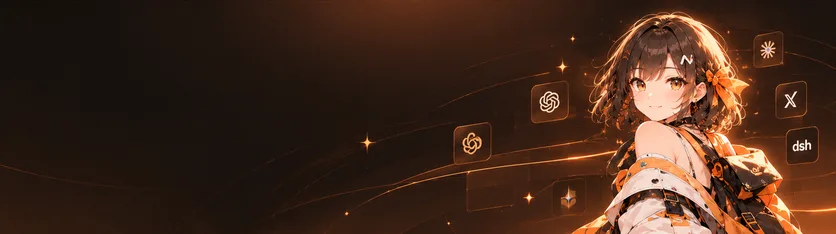
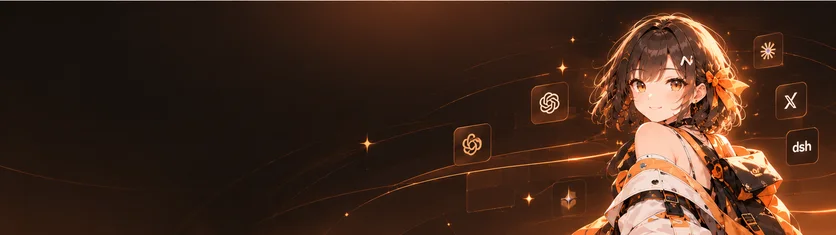
site: restore workflow full-bleed bg + home multi-platform download
- Crop fig2 bottom half into workflow-bg; object-position right so Nomi stays right
- Add scoped home-download section after workflow (Win/mac/Linux glass cards), no platforms block
- Leave pillars/sixcaps/nav/download.html untouched

diff --git a/index.html b/index.html
@@ -12,7 +12,7 @@
   <link rel="icon" href="assets/brand/nomi-mark.svg" type="image/svg+xml" />
   <link rel="preload" href="assets/fonts/nunito-latin.woff2" as="font" type="font/woff2" crossorigin />
   <link rel="preload" as="image" href="assets/mockup/hero-bg.webp?v=20261025v2fc" imagesrcset="assets/mockup/hero-bg.webp?v=20261025v2fc 1024w, assets/mockup/hero-bg@2x.webp?v=20261025v2fc 2048w" imagesizes="100vw" fetchpriority="high" />
-  <link rel="stylesheet" href="css/styles.css?v=20261025v2fc" />
+  <link rel="stylesheet" href="css/styles.css?v=20261025v2fd" />
 </head>
 <body data-page="home" id="top">
   <header class="site-header">
@@ -199,10 +199,10 @@
     <section class="section workflow workflow--bleed" id="workflow" aria-labelledby="workflow-title">
       <div class="workflow-bleed-media" aria-hidden="true">
         <img
-          src="assets/mockup/workflow-bg.webp?v=20261025v2fc"
-          srcset="assets/mockup/workflow-bg.webp?v=20261025v2fc 836w, assets/mockup/workflow-bg@2x.webp?v=20261025v2fc 1672w"
+          src="assets/mockup/workflow-bg.webp?v=20261025v2fd"
+          srcset="assets/mockup/workflow-bg.webp?v=20261025v2fd 836w, assets/mockup/workflow-bg@2x.webp?v=20261025v2fd 1672w"
           sizes="100vw"
-          width="1672" height="468"
+          width="1672" height="470"
           alt=""
           loading="lazy"
           decoding="async"
@@ -225,6 +225,53 @@
           <li><span class="wf-num">5</span><strong data-i18n="workflow.5.t">会话接管</strong><span data-i18n="workflow.5.d">热切换 · 升级 · 恢复</span></li>
           <li><span class="wf-num">6</span><strong data-i18n="workflow.6.t">可观测与安全</strong><span data-i18n="workflow.6.d">追踪 · 限额 · 令牌 · 隔离</span></li>
         </ol>
+      </div>
+    </section>
+
+
+    <section class="home-download" id="download" aria-labelledby="home-dl-title">
+      <div class="container home-download-grid">
+        <div class="home-download-copy">
+          <span class="section-label section-label--on-dark"><span class="star-mark" aria-hidden="true"><svg viewBox="0 0 24 24"><path fill="currentColor" d="M12 2C12.8 7 14.5 9 19.5 10C14.5 11 12.8 13 12 18C11.2 13 9.5 11 4.5 10C9.5 9 11.2 7 12 2Z"/></svg></span><span data-i18n="hero.badge">Nomi 2.0</span></span>
+          <h2 id="home-dl-title" data-i18n="page.download.title">支持多平台</h2>
+          <p class="lead" data-i18n="page.download.lead">覆盖主流操作系统，随时随地开始使用。</p>
+          <div class="home-download-cards">
+            <article class="home-dl-card">
+              <div class="os-icon" aria-hidden="true"><svg viewBox="0 0 24 24" fill="currentColor"><path d="M3 5.5L10.5 4.4v7.1H3V5.5zm0 13L10.5 19.6v-7.1H3v6zm8.2-13.2L21 3v8.5h-9.8V5.3zM12.2 19.7L21 21v-8.5h-8.8v7.2z"/></svg></div>
+              <h3>Windows</h3>
+              <p class="req" data-i18n="dl.windows.req">Windows 10 及以上</p>
+              <a class="btn btn-primary" id="dl-win" href="https://github.com/Cookieboty/nomi-ai/releases" rel="noopener noreferrer" target="_blank" data-i18n="dl.download">下载</a>
+            </article>
+            <article class="home-dl-card">
+              <div class="os-icon" aria-hidden="true"><svg viewBox="0 0 24 24" fill="currentColor"><path d="M16.7 12.6c0-2.1 1.7-3.1 1.8-3.2-1-1.4-2.5-1.6-3-1.7-1.3-.1-2.5.8-3.1.8-.7 0-1.7-.7-2.8-.7-1.4 0-2.8.9-3.5 2.2-1.5 2.6-.4 6.5 1.1 8.6.7 1 1.6 2.2 2.7 2.1 1.1 0 1.5-.7 2.8-.7s1.7.7 2.8.7c1.2 0 1.9-1 2.6-2 .8-1.2 1.1-2.3 1.1-2.4-.1 0-2.2-.9-2.2-3.7zM14.8 6.5c.6-.7 1-1.7.9-2.7-.9 0-1.9.6-2.5 1.3-.6.6-1.1 1.7-.9 2.6 1 .1 1.9-.5 2.5-1.2z"/></svg></div>
+              <h3>macOS</h3>
+              <p class="req" data-i18n="dl.mac.req">Apple Silicon / Intel</p>
+              <a class="btn btn-primary" id="dl-mac" href="https://github.com/Cookieboty/nomi-ai/releases" rel="noopener noreferrer" target="_blank" data-i18n="dl.download">下载</a>
+              <div class="home-dl-sub">
+                <a id="dl-mac-arm64" href="https://github.com/Cookieboty/nomi-ai/releases" rel="noopener noreferrer" target="_blank">Apple Silicon</a>
+                <a id="dl-mac-x64" href="https://github.com/Cookieboty/nomi-ai/releases" rel="noopener noreferrer" target="_blank">Intel</a>
+              </div>
+            </article>
+            <article class="home-dl-card">
+              <div class="os-icon" aria-hidden="true"><svg viewBox="0 0 24 24" fill="currentColor"><path d="M12.5 2c-1.2 0-2.1 1.4-1.9 2.7.1.6.3 1.2.3 1.8 0 .4-.2.8-.3 1.2-.5 1.3-.2 2.3.7 3.2.2.2.3.5.2.8-.2.8-.5 1.5-.5 2.4 0 2.1 1.6 3.6 3.8 3.6 2.5 0 4-1.8 4-4.1 0-1.5-.6-2.7-1.1-3.7-.2-.4-.2-.8 0-1.2.5-1.1.7-2.2.4-3.4C17.8 3.1 16.4 2 14.8 2c-.8 0-1.5.3-2 .8-.1-.3-.2-.5-.3-.8zM8.6 14.2c-.9 0-1.8.4-2.4 1.1C5.2 16.3 5 17.7 5.4 19c.5 1.5 1.8 2.5 3.4 2.5.6 0 1.1-.1 1.6-.4.4 1.2 1.5 2 2.8 2 1 0 1.9-.5 2.4-1.3.6.3 1.2.4 1.9.4 1.8 0 3.3-1.2 3.7-2.9.3-1.3-.1-2.6-1-3.5-.7-.7-1.6-1.1-2.6-1.1-.5 0-1 .1-1.4.3-.5-.9-1.5-1.5-2.6-1.5-.9 0-1.7.4-2.3 1.1-.5-.7-1.3-1.1-2.1-1.1z"/></svg></div>
+              <h3>Linux</h3>
+              <p class="req" data-i18n="dl.linux.req">x64 AppImage</p>
+              <a class="btn btn-primary" id="dl-linux" href="https://github.com/Cookieboty/nomi-ai/releases" rel="noopener noreferrer" target="_blank" data-i18n="dl.download">下载</a>
+            </article>
+          </div>
+          <p class="home-download-more"><a href="download.html" data-i18n="platforms.desktop.cta">前往下载页 →</a></p>
+        </div>
+        <div class="home-download-visual" aria-hidden="true">
+          <img
+            src="assets/mockup/home-dl-visual.webp?v=20261025v2fd"
+            srcset="assets/mockup/home-dl-visual.webp?v=20261025v2fd 257w, assets/mockup/home-dl-visual@2x.webp?v=20261025v2fd 514w"
+            sizes="(max-width: 900px) min(70vw, 280px), 340px"
+            width="514" height="397"
+            alt=""
+            loading="lazy"
+            decoding="async"
+          />
+        </div>
       </div>
     </section>
 

diff --git a/css/styles.css b/css/styles.css
@@ -2058,6 +2058,7 @@ a:hover { color: var(--app-accent-strong); }
   overflow: hidden;
   color: #fff8f1;
   padding: clamp(2.75rem, 6vw, 4.25rem) 0;
+  min-height: clamp(380px, 52vh, 520px);
   background: #140e0a;
 }
 .workflow-bleed-media {
@@ -2069,7 +2070,7 @@ a:hover { color: var(--app-accent-strong); }
   width: 100%;
   height: 100%;
   object-fit: cover;
-  object-position: 85% 45%;
+  object-position: right center;
   display: block;
 }
 .workflow-bleed-mask {
@@ -2127,7 +2128,7 @@ a:hover { color: var(--app-accent-strong); }
   .workflow-steps { grid-template-columns: repeat(3, minmax(0, 1fr)); }
 }
 @media (max-width: 640px) {
-  .workflow-bleed-media img { object-position: 92% 40%; }
+  .workflow-bleed-media img { object-position: right center; }
   .workflow-bleed-mask {
     background:
       linear-gradient(180deg, rgba(12, 8, 5, 0.7) 0%, rgba(12, 8, 5, 0.82) 100%),
@@ -2427,4 +2428,120 @@ body[data-page="download"] footer.site-footer {
 }
 @media (min-width: 640px) and (max-width: 900px) {
   .dl-glass-grid { grid-template-columns: repeat(3, minmax(0, 1fr)); }
+}
+
+
+/* Home download (fig1) — scoped, do not touch .dl-hero */
+.home-download {
+  position: relative;
+  overflow: hidden;
+  color: #fff8f1;
+  padding: clamp(2.5rem, 5.5vw, 3.75rem) 0;
+  background:
+    radial-gradient(ellipse 55% 70% at 88% 45%, rgba(251, 148, 102, 0.28), transparent 55%),
+    radial-gradient(ellipse 40% 50% at 20% 80%, rgba(196, 84, 37, 0.12), transparent 50%),
+    linear-gradient(160deg, #120c09 0%, #1c120c 45%, #24160f 100%);
+}
+.home-download-grid {
+  display: grid;
+  grid-template-columns: minmax(0, 1.2fr) minmax(200px, 0.55fr);
+  gap: clamp(1.25rem, 3.5vw, 2.5rem);
+  align-items: center;
+}
+.home-download-copy .section-label--on-dark {
+  color: #ffd2b0;
+  margin-bottom: 0.55rem;
+  text-transform: none;
+  letter-spacing: 0.02em;
+  font-weight: 700;
+}
+.home-download h2 {
+  color: #fff8f1;
+  font-size: clamp(1.75rem, 3.8vw, 2.5rem);
+  margin: 0 0 0.45rem;
+  background: none;
+}
+.home-download .lead {
+  color: rgba(255, 248, 241, 0.78);
+  margin: 0 0 1.35rem;
+  max-width: 28em;
+}
+.home-download-cards {
+  display: grid;
+  grid-template-columns: repeat(3, minmax(0, 1fr));
+  gap: 0.85rem;
+}
+.home-dl-card {
+  background: rgba(255, 248, 241, 0.07);
+  border: 1px solid rgba(251, 148, 102, 0.35);
+  border-radius: 18px;
+  padding: 1.2rem 1.05rem 1.15rem;
+  box-shadow: 0 12px 32px rgba(0, 0, 0, 0.28);
+  backdrop-filter: blur(12px);
+  -webkit-backdrop-filter: blur(12px);
+  display: flex;
+  flex-direction: column;
+  gap: 0.3rem;
+  color: #fff8f1;
+}
+.home-dl-card .os-icon {
+  width: 40px;
+  height: 40px;
+  border-radius: 12px;
+  background: rgba(251, 148, 102, 0.18);
+  color: #ffd2b0;
+  display: grid;
+  place-items: center;
+  margin-bottom: 0.25rem;
+}
+.home-dl-card .os-icon svg { width: 22px; height: 22px; }
+.home-dl-card h3 { margin: 0; color: #fff8f1; font-size: 1.1rem; }
+.home-dl-card .req {
+  margin: 0 0 0.65rem;
+  font-size: 0.85rem;
+  color: rgba(255, 248, 241, 0.7);
+}
+.home-dl-card .btn-primary {
+  width: 100%;
+  justify-content: center;
+  border-radius: 999px;
+  margin-top: auto;
+}
+.home-dl-sub {
+  display: flex;
+  flex-wrap: wrap;
+  gap: 0.35rem 0.75rem;
+  margin-top: 0.4rem;
+  justify-content: center;
+}
+.home-dl-sub a {
+  font-size: 0.72rem;
+  color: rgba(255, 248, 241, 0.55);
+  text-decoration: underline;
+  text-underline-offset: 2px;
+}
+.home-dl-sub a:hover { color: #ffb288; }
+.home-download-more {
+  margin: 1rem 0 0;
+  font-size: 0.92rem;
+}
+.home-download-more a { color: #ffb288; }
+.home-download-visual {
+  display: flex;
+  justify-content: center;
+  align-items: center;
+}
+.home-download-visual img {
+  width: min(100%, 340px);
+  height: auto;
+  filter: drop-shadow(0 24px 48px rgba(0, 0, 0, 0.45));
+}
+@media (max-width: 900px) {
+  .home-download-grid { grid-template-columns: 1fr; }
+  .home-download-visual { order: -1; }
+  .home-download-visual img { width: min(70vw, 280px); }
+  .home-download-cards { grid-template-columns: 1fr; }
+}
+@media (min-width: 640px) and (max-width: 900px) {
+  .home-download-cards { grid-template-columns: repeat(3, minmax(0, 1fr)); }
 }
